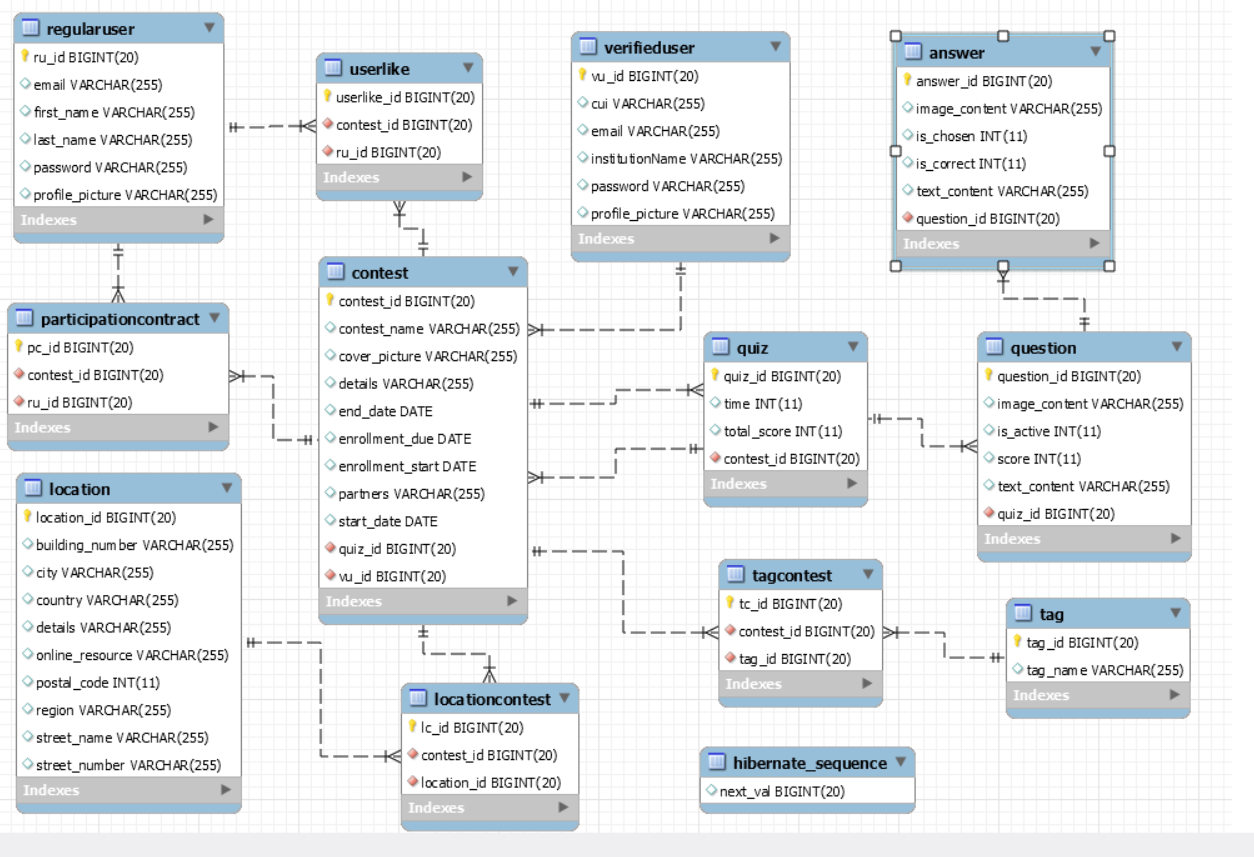
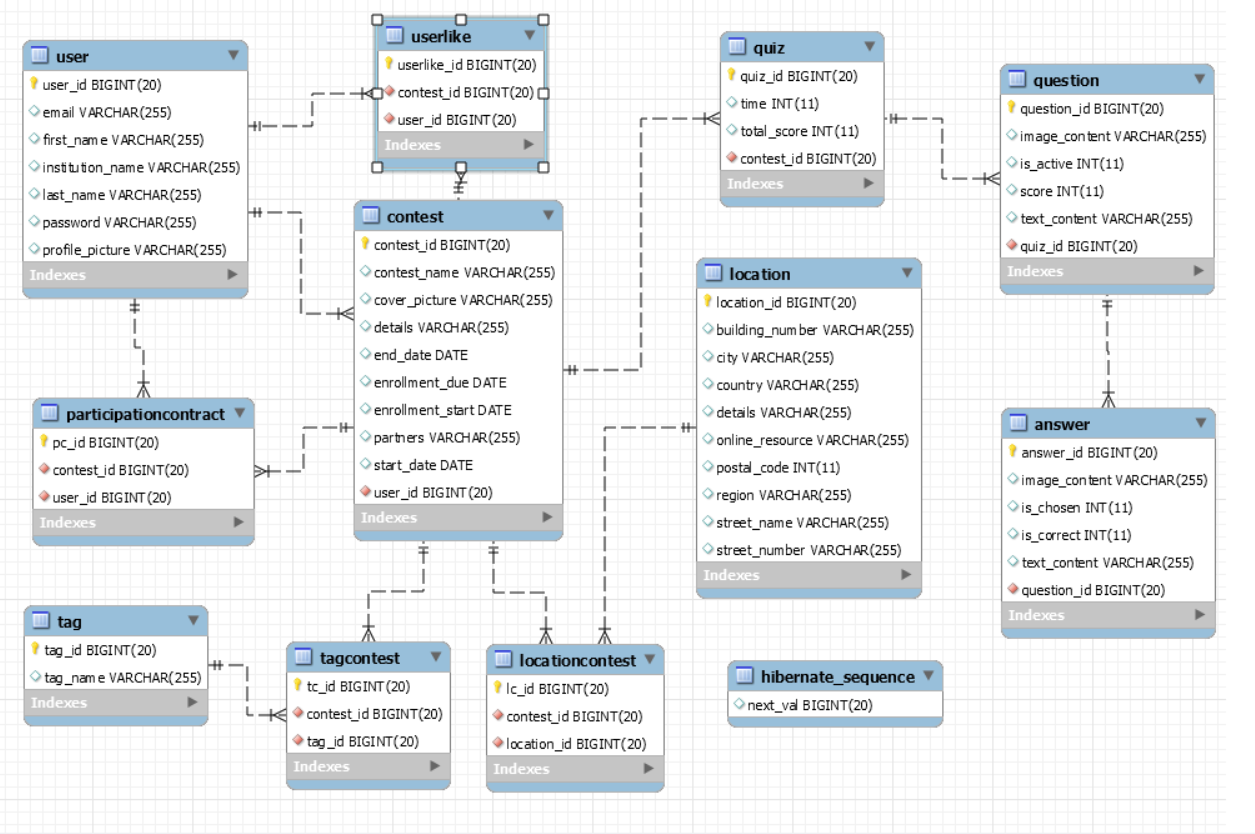
fix(back-end): made the final form for the entities and the db.

diff --git a/Back-End/contestPoint/src/main/java/com/contestpoint/model/User.java b/Back-End/contestPoint/src/main/java/com/contestpoint/model/User.java
@@ -10,11 +10,11 @@ import java.util.List;
 @RequiredArgsConstructor
 @Data
 @Entity
-@Table(name = "RegularUser")
-public class RegularUser {
+@Table(name = "User")
+public class User {
     @Id
     @GeneratedValue(strategy= GenerationType.AUTO)
-    @Column(name="ru_id")
+    @Column(name="user_id")
     private Long ruId;
 
     @Column(name="first_name") @NonNull
@@ -29,13 +29,19 @@ public class RegularUser {
     @Column(name="password") @NonNull
     private String password;
 
+    @Column(name="institution_name")
+    private String institutionName;
+
     @Column(name="profile_picture")
 
     private String profilePicture;
 
-    @OneToMany(cascade = CascadeType.REMOVE ,mappedBy = "regularUser")
+    @OneToMany(cascade = CascadeType.REMOVE ,mappedBy = "user")
     List<UserLike> userLikes;
 
-    @OneToMany(cascade = CascadeType.REMOVE ,mappedBy = "regularUser")
+    @OneToMany(cascade = CascadeType.REMOVE ,mappedBy = "user")
     List<ParticipationContract> contracts;
+
+    @OneToMany(cascade = CascadeType.REMOVE ,mappedBy = "user")
+    List<Contest> contests;
 }

diff --git a/Back-End/contestPoint/src/main/java/com/contestpoint/model/Contest.java b/Back-End/contestPoint/src/main/java/com/contestpoint/model/Contest.java
@@ -42,10 +42,6 @@ public class Contest {
     @Column(name="cover_picture")
     private String coverPicture;
 
-    @ManyToOne
-    @JoinColumn(name="vu_id", nullable=false)
-    private VerifiedUser verifiedUser;
-
     @OneToMany(cascade = CascadeType.REMOVE ,mappedBy = "contest")
     List<UserLike> userLikes;
 
@@ -58,7 +54,7 @@ public class Contest {
     @OneToMany(cascade = CascadeType.REMOVE ,mappedBy = "contest")
     List<LocationContest> locationContests;
 
-    @OneToOne
-    @JoinColumn(name="quiz_id", nullable=false)
-    private Quiz quiz;
+    @ManyToOne
+    @JoinColumn(name="user_id", nullable=false)
+    private User user;
 }

diff --git a/Back-End/contestPoint/src/main/java/com/contestpoint/model/ParticipationContract.java b/Back-End/contestPoint/src/main/java/com/contestpoint/model/ParticipationContract.java
@@ -3,7 +3,6 @@ package com.contestpoint.model;
 import lombok.AllArgsConstructor;
 import lombok.Data;
 import lombok.NoArgsConstructor;
-import lombok.RequiredArgsConstructor;
 
 import javax.persistence.*;
 
@@ -19,8 +18,8 @@ public class ParticipationContract {
     private Long pcId;
 
     @ManyToOne
-    @JoinColumn(name="ru_id", nullable=false)
-    private RegularUser regularUser;
+    @JoinColumn(name="user_id", nullable=false)
+    private User user;
 
     @ManyToOne
     @JoinColumn(name="contest_id", nullable=false)

diff --git a/Back-End/contestPoint/src/main/java/com/contestpoint/model/UserLike.java b/Back-End/contestPoint/src/main/java/com/contestpoint/model/UserLike.java
@@ -3,7 +3,6 @@ package com.contestpoint.model;
 import lombok.AllArgsConstructor;
 import lombok.Data;
 import lombok.NoArgsConstructor;
-import lombok.RequiredArgsConstructor;
 
 import javax.persistence.*;
 
@@ -19,8 +18,8 @@ public class UserLike {
     private Long userlikeId;
 
     @ManyToOne
-    @JoinColumn(name="ru_id", nullable=false)
-    private RegularUser regularUser;
+    @JoinColumn(name="user_id", nullable=false)
+    private User user;
 
     @ManyToOne
     @JoinColumn(name="contest_id", nullable=false)
